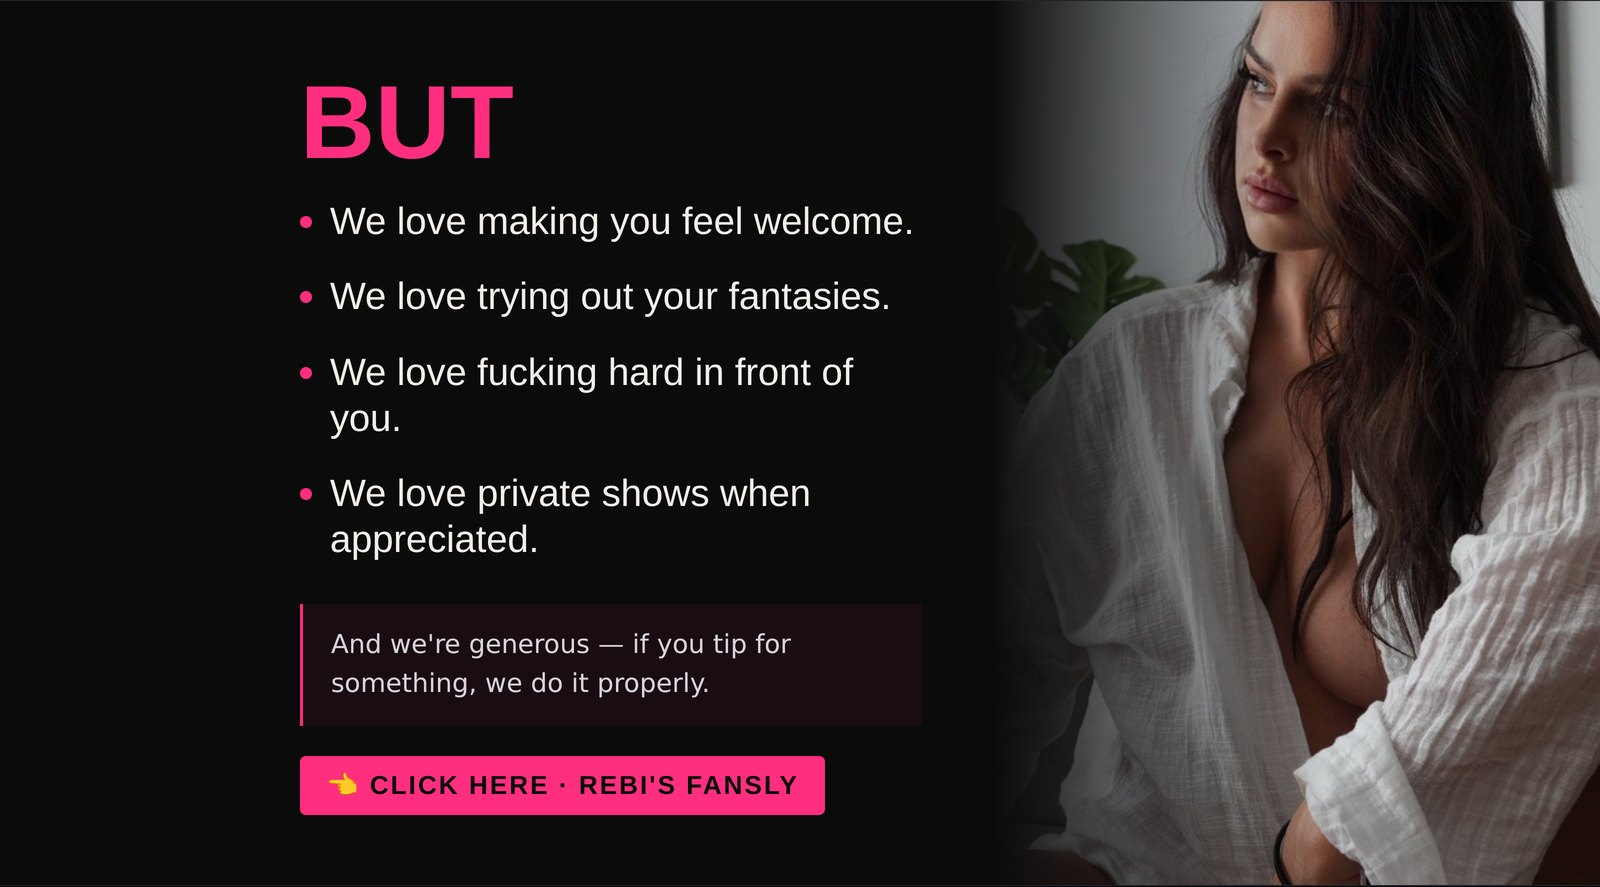
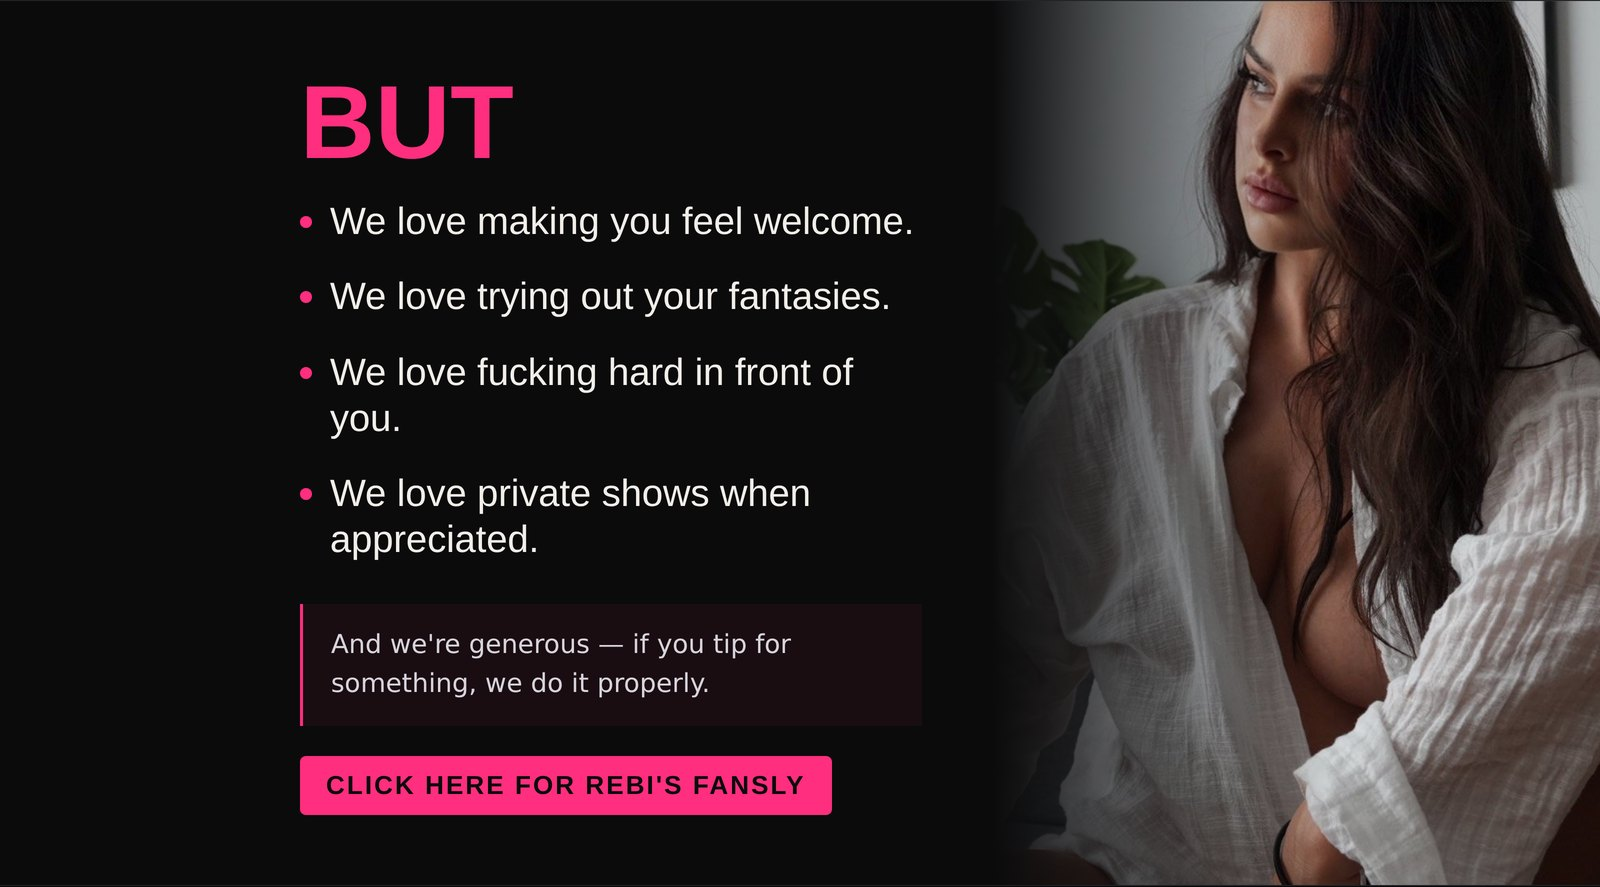
Remove emoji from Fansly badges

Changed region(s): [[0.1875, 0.8523, 0.5312, 0.9132]]

diff --git a/bio-wide.html b/bio-wide.html
@@ -49,7 +49,7 @@
     <div class="eyebrow">Rebi &amp; Ricci</div>
     <h1>We're a fit<br>gym couple</h1>
     <div class="sub">We're here to have fun with you.</div>
-    <div class="tap">&#128072; Click here &#183; our Fansly</div>
+    <div class="tap">Click here to open our Fansly</div>
   </div>
   <div class="phwrap"><img src="assets/bio/couple-src.jpg"><div class="fade"></div></div>
 </div>
@@ -80,7 +80,7 @@
       <li>We love private shows when appreciated.</li>
     </ul>
     <div class="note">And we're generous — if you tip for something, we do it properly.</div>
-    <div class="tap">&#128072; Click here &#183; Rebi's Fansly</div>
+    <div class="tap">Click here for Rebi's Fansly</div>
   </div>
   <div class="phwrap"><img src="assets/bio/solo-src.jpg" style="object-position:center 28%"><div class="fade"></div></div>
 </div>
